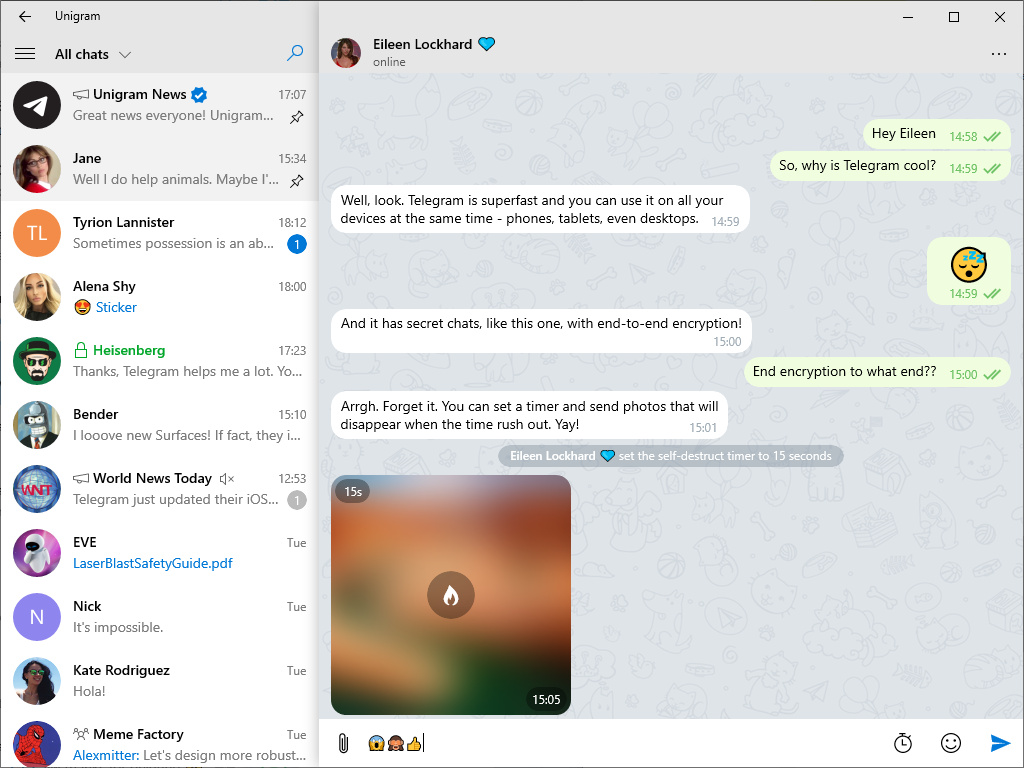
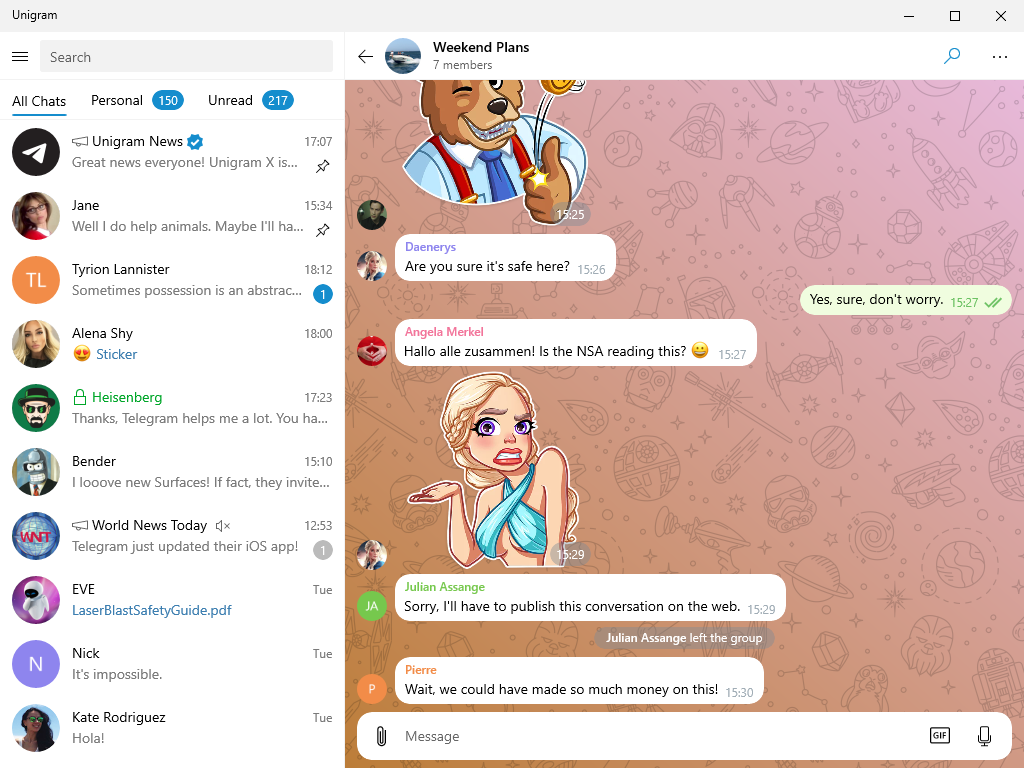
Updated store screenshots

diff --git a/Unigram/Unigram/Views/IntroPage.xaml b/Unigram/Unigram/Views/IntroPage.xaml
@@ -120,7 +120,7 @@
             <Grid Width="200" Height="200" Background="Transparent">
                 <SwapChainPanel x:Name="SwapChain" Loaded="SwapChain_Loaded" Unloaded="SwapChain_Unloaded" Width="200" Height="200"/>
                 <Border Width="160" Height="160" CornerRadius="80">
-                    <Image Source="ms-appx:///Assets/Mockup/a0.png"/>
+                    <Image Source="ms-appx:///Assets/Logos/StoreLogo.scale-400.png"/>
                 </Border>
             </Grid>
             <StackPanel Opacity="0">

diff --git a/Unigram/Unigram/Services/ProtoService.cs b/Unigram/Unigram/Services/ProtoService.cs
@@ -216,36 +216,36 @@ namespace Unigram.Services
 #if MOCKUP
             ProfilePhoto ProfilePhoto(string name)
             {
-                return new ProfilePhoto(0, new Telegram.Td.Api.File(0, 0, 0, new LocalFile(System.IO.Path.Combine(Package.Current.InstalledLocation.Path, "Assets\\Mockup\\", name), true, true, false, true, 0, 0, 0), null), null);
+                return new ProfilePhoto(0, new Telegram.Td.Api.File(0, 0, 0, new LocalFile(System.IO.Path.Combine(Windows.ApplicationModel.Package.Current.InstalledLocation.Path, "Assets\\Mockup\\", name), true, true, false, true, 0, 0, 0), null), null);
             }
 
             ChatPhoto ChatPhoto(string name)
             {
-                return new ChatPhoto(new Telegram.Td.Api.File(0, 0, 0, new LocalFile(System.IO.Path.Combine(Package.Current.InstalledLocation.Path, "Assets\\Mockup\\", name), true, true, false, true, 0, 0, 0), null), null);
+                return new ChatPhoto(new Telegram.Td.Api.File(0, 0, 0, new LocalFile(System.IO.Path.Combine(Windows.ApplicationModel.Package.Current.InstalledLocation.Path, "Assets\\Mockup\\", name), true, true, false, true, 0, 0, 0), null), null);
             }
 
-            _users[ 0] = new User( 0, "Jane",                   string.Empty, string.Empty, string.Empty, null, null, null, null, false, false, string.Empty, true, new UserTypeRegular(), string.Empty);
-            _users[ 1] = new User( 1, "Tyrion", "Lannister",    string.Empty, string.Empty, null, null, null, null, false, false, string.Empty, true, new UserTypeRegular(), string.Empty);
-            _users[ 2] = new User( 2, "Alena", "Shy",           string.Empty, string.Empty, null, null, null, null, false, false, string.Empty, true, new UserTypeRegular(), string.Empty);
-            _users[ 3] = new User( 3, "Heisenberg",             string.Empty, string.Empty, string.Empty, null, null, null, null, false, false, string.Empty, true, new UserTypeRegular(), string.Empty);
-            _users[ 4] = new User( 4, "Bender",                 string.Empty, string.Empty, string.Empty, null, null, null, null, false, false, string.Empty, true, new UserTypeRegular(), string.Empty);
-            _users[ 5] = new User( 5, "EVE",                    string.Empty, string.Empty, string.Empty, null, null, null, null, false, false, string.Empty, true, new UserTypeRegular(), string.Empty);
-            _users[16] = new User(16, "Nick",                   string.Empty, string.Empty, string.Empty, null, null, null, null, false, false, string.Empty, true, new UserTypeRegular(), string.Empty);
-            _users[ 7] = new User( 7, "Eileen", "Lockhard \uD83D\uDC99", string.Empty, string.Empty, new UserStatusOnline(int.MaxValue), ProfilePhoto("a5.png"), null, null, false, false, string.Empty, true, new UserTypeRegular(), string.Empty);
-            _users[11] = new User(11, "Thomas",                 string.Empty, string.Empty, string.Empty, null, ProfilePhoto("a3.png"), null, null, false, false, string.Empty, true, new UserTypeRegular(), string.Empty);
-            _users[ 9] = new User( 9, "Daenerys",               string.Empty, string.Empty, string.Empty, null, ProfilePhoto("a2.png"), null, null, false, false, string.Empty, true, new UserTypeRegular(), string.Empty);
-            _users[13] = new User(13, "Angela", "Merkel",       string.Empty, string.Empty, null, ProfilePhoto("a1.png"), null, null, false, false, string.Empty, true, new UserTypeRegular(), string.Empty);
-            _users[10] = new User(10, "Julian", "Assange",      string.Empty, string.Empty, null, null, null, null, false, false, string.Empty, true, new UserTypeRegular(), string.Empty);
-            _users[ 8] = new User( 8, "Pierre",                 string.Empty, string.Empty, string.Empty, null, null, null, null, false, false, string.Empty, true, new UserTypeRegular(), string.Empty);
-            _users[17] = new User(17, "Alexmitter",             string.Empty, string.Empty, string.Empty, null, null, null, null, false, false, string.Empty, true, new UserTypeRegular(), string.Empty);
-            _users[18] = new User(18, "Jaina", "Moore",         string.Empty, string.Empty, null, null, null, null, false, false, string.Empty, true, new UserTypeRegular(), string.Empty);
+            _users[ 0] = new User( 0, "Jane",string.Empty,                  string.Empty, string.Empty, null,                               null,                   false, false, false, false, string.Empty, false, true, new UserTypeRegular(), string.Empty);
+            _users[ 1] = new User( 1, "Tyrion", "Lannister",                string.Empty, string.Empty, null,                               null,                   false, false, false, false, string.Empty, false, true, new UserTypeRegular(), string.Empty);
+            _users[ 2] = new User( 2, "Alena", "Shy",                       string.Empty, string.Empty, null,                               null,                   false, false, false, false, string.Empty, false, true, new UserTypeRegular(), string.Empty);
+            _users[ 3] = new User( 3, "Heisenberg", string.Empty,           string.Empty, string.Empty, null,                               null,                   false, false, false, false, string.Empty, false, true, new UserTypeRegular(), string.Empty);
+            _users[ 4] = new User( 4, "Bender", string.Empty,               string.Empty, string.Empty, null,                               null,                   false, false, false, false, string.Empty, false, true, new UserTypeRegular(), string.Empty);
+            _users[ 5] = new User( 5, "EVE", string.Empty,                  string.Empty, string.Empty, null,                               null,                   false, false, false, false, string.Empty, false, true, new UserTypeRegular(), string.Empty);
+            _users[16] = new User(16, "Nick", string.Empty,                 string.Empty, string.Empty, null,                               null,                   false, false, false, false, string.Empty, false, true, new UserTypeRegular(), string.Empty);
+            _users[ 7] = new User( 7, "Eileen", "Lockhard \uD83D\uDC99",    string.Empty, string.Empty, new UserStatusOnline(int.MaxValue), ProfilePhoto("a5.png"), false, false, false, false, string.Empty, false, true, new UserTypeRegular(), string.Empty);
+            _users[11] = new User(11, "Thomas", string.Empty,               string.Empty, string.Empty, null,                               ProfilePhoto("a3.png"), false, false, false, false, string.Empty, false, true, new UserTypeRegular(), string.Empty);
+            _users[ 9] = new User( 9, "Daenerys", string.Empty,             string.Empty, string.Empty, null,                               ProfilePhoto("a2.png"), false, false, false, false, string.Empty, false, true, new UserTypeRegular(), string.Empty);
+            _users[13] = new User(13, "Angela", "Merkel",                   string.Empty, string.Empty, null,                               ProfilePhoto("a1.png"), false, false, false, false, string.Empty, false, true, new UserTypeRegular(), string.Empty);
+            _users[10] = new User(10, "Julian", "Assange",                  string.Empty, string.Empty, null,                               null,                   false, false, false, false, string.Empty, false, true, new UserTypeRegular(), string.Empty);
+            _users[ 8] = new User( 8, "Pierre", string.Empty,               string.Empty, string.Empty, null,                               null,                   false, false, false, false, string.Empty, false, true, new UserTypeRegular(), string.Empty);
+            _users[17] = new User(17, "Alexmitter", string.Empty,           string.Empty, string.Empty, null,                               null,                   false, false, false, false, string.Empty, false, true, new UserTypeRegular(), string.Empty);
+            _users[18] = new User(18, "Jaina", "Moore",                     string.Empty, string.Empty, null,                               null,                   false, false, false, false, string.Empty, false, true, new UserTypeRegular(), string.Empty);
 
             _secretChats[1] = new SecretChat(1, 7, new SecretChatStateReady(), false, 15, new byte[0], 75);
 
-            _supergroups[0] = new Supergroup(0, string.Empty, 0, new ChatMemberStatusMember(), 0, false, false, true, true, string.Empty);
-            _supergroups[1] = new Supergroup(1, string.Empty, 0, new ChatMemberStatusMember(), 0, false, false, true, false, string.Empty);
-            _supergroups[2] = new Supergroup(2, string.Empty, 0, new ChatMemberStatusMember(), 7, false, false, false, false, string.Empty);
-            _supergroups[3] = new Supergroup(3, string.Empty, 0, new ChatMemberStatusMember(), 0, false, false, false, false, string.Empty);
+            _supergroups[0] = new Supergroup(0, string.Empty, 0, new ChatMemberStatusMember(), 0, false, false, false, false, true, true, string.Empty, false);
+            _supergroups[1] = new Supergroup(1, string.Empty, 0, new ChatMemberStatusMember(), 0, false, false, false, false, true, false, string.Empty, false);
+            _supergroups[2] = new Supergroup(2, string.Empty, 0, new ChatMemberStatusMember(), 7, false, false, false, false, false, false, string.Empty, false);
+            _supergroups[3] = new Supergroup(3, string.Empty, 0, new ChatMemberStatusMember(), 0, false, false, false, false, false, false, string.Empty, false);
 
             int TodayDate(int hour, int minute)
             {
@@ -272,34 +272,36 @@ namespace Unigram.Services
                 return (int)(last.ToUniversalTime() - dtDateTime).TotalSeconds;
             }
 
-            var lastMessage0  = new Message(long.MaxValue, 0,  0,  null, false, false, false, false, false, false, false, TodayDate(17, 07), 0, null, 0, 0, 0, 0, string.Empty, 0, 0, new MessageText(new FormattedText("Great news everyone! Unigram X is now available in the Microsoft Store", new TextEntity[0]), null), null);
-            var lastMessage1  = new Message(long.MaxValue, 1,  1,  null, false, false, false, false, false, false, false, TodayDate(15, 34), 0, null, 0, 0, 0, 0, string.Empty, 0, 0, new MessageText(new FormattedText("Well I do help animals. Maybe I'll have a few cats in my new luxury apartment. 😊", new TextEntity[0]), null), null);
-            var lastMessage2  = new Message(long.MaxValue, 2,  2,  null, false, false, false, false, false, false, false, TodayDate(18, 12), 0, null, 0, 0, 0, 0, string.Empty, 0, 0, new MessageText(new FormattedText("Sometimes possession is an abstract concept. They took my purse, but the...", new TextEntity[0]), null), null);
-            var lastMessage3  = new Message(long.MaxValue, 3,  3,  null, false, false, false, false, false, false, false, TodayDate(18, 00), 0, null, 0, 0, 0, 0, string.Empty, 0, 0, new MessageSticker(new Sticker(0, 0, 0, "😍", false, null, null, null)), null);
-            var lastMessage4  = new Message(long.MaxValue, 4,  4,  null, false, false, false, false, false, false, false, TodayDate(17, 23), 0, null, 0, 0, 0, 0, string.Empty, 0, 0, new MessageText(new FormattedText("Thanks, Telegram helps me a lot. You have my financial support if you need more servers.", new TextEntity[0]), null), null);
-            var lastMessage5  = new Message(long.MaxValue, 5,  5,  null, false, false, false, false, false, false, false, TodayDate(15, 10), 0, null, 0, 0, 0, 0, string.Empty, 0, 0, new MessageText(new FormattedText("I looove new Surfaces! If fact, they invited me to a focus group.", new TextEntity[0]), null), null);
-            var lastMessage6  = new Message(long.MaxValue, 6,  6,  null, false, false, false, false, false, false, false, TodayDate(12, 53), 0, null, 0, 0, 0, 0, string.Empty, 0, 0, new MessageText(new FormattedText("Telegram just updated their iOS app!", new TextEntity[0]), null), null);
-            var lastMessage7  = new Message(long.MaxValue, 7,  7,  null, false, false, false, false, false, false, false, TuesdayDate(), 0, null, 0, 0, 0, 0, string.Empty, 0, 0, new MessageDocument(new Document("LaserBlastSafetyGuide.pdf", string.Empty, null, null), new FormattedText(string.Empty, new TextEntity[0])), null);
-            var lastMessage8  = new Message(long.MaxValue, 8,  8,  null, false, false, false, false, false, false, false, TuesdayDate(), 0, null, 0, 0, 0, 0, string.Empty, 0, 0, new MessageText(new FormattedText("It's impossible.", new TextEntity[0]), null), null);
-            var lastMessage9  = new Message(long.MaxValue, 9,  9,  null, false, false, false, false, false, false, false, TuesdayDate(), 0, null, 0, 0, 0, 0, string.Empty, 0, 0, new MessageText(new FormattedText("Hola!", new TextEntity[0]), null), null);
-            var lastMessage10 = new Message(long.MaxValue, 17, 12, null, false, false, false, false, false, false, false, TuesdayDate(), 0, null, 0, 0, 0, 0, string.Empty, 0, 0, new MessageText(new FormattedText("Let's design more robust memes", new TextEntity[0]), null), null);
-            var lastMessage11 = new Message(long.MaxValue, 18, 13, null, false, false, false, false, false, false, false, TuesdayDate(), 0, null, 0, 0, 0, 0, string.Empty, 0, 0, new MessageText(new FormattedText("What?! 😱", new TextEntity[0]), null), null);
+            var lastMessage0  = new Message(long.MaxValue, 0,  0,  null, null, false, false, false, false, false, false, false, TodayDate(17, 07),  0, null, 0, 0, 0, 0, string.Empty, 0, 0, string.Empty, new MessageText(new FormattedText("Great news everyone! Unigram X is now available in the Microsoft Store", new TextEntity[0]), null), null);
+            var lastMessage1  = new Message(long.MaxValue, 1,  1,  null, null, false, false, false, false, false, false, false, TodayDate(15, 34),  0, null, 0, 0, 0, 0, string.Empty, 0, 0, string.Empty, new MessageText(new FormattedText("Well I do help animals. Maybe I'll have a few cats in my new luxury apartment. 😊", new TextEntity[0]), null), null);
+            var lastMessage2  = new Message(long.MaxValue, 2,  2,  null, null, false, false, false, false, false, false, false, TodayDate(18, 12),  0, null, 0, 0, 0, 0, string.Empty, 0, 0, string.Empty, new MessageText(new FormattedText("Sometimes possession is an abstract concept. They took my purse, but the...", new TextEntity[0]), null), null);
+            var lastMessage3  = new Message(long.MaxValue, 3,  3,  null, null, false, false, false, false, false, false, false, TodayDate(18, 00),  0, null, 0, 0, 0, 0, string.Empty, 0, 0, string.Empty, new MessageSticker(new Sticker(0, 0, 0, "😍", false, false, null, null, null)), null);
+            var lastMessage4  = new Message(long.MaxValue, 4,  4,  null, null, false, false, false, false, false, false, false, TodayDate(17, 23),  0, null, 0, 0, 0, 0, string.Empty, 0, 0, string.Empty, new MessageText(new FormattedText("Thanks, Telegram helps me a lot. You have my financial support if you need more servers.", new TextEntity[0]), null), null);
+            var lastMessage5  = new Message(long.MaxValue, 5,  5,  null, null, false, false, false, false, false, false, false, TodayDate(15, 10),  0, null, 0, 0, 0, 0, string.Empty, 0, 0, string.Empty, new MessageText(new FormattedText("I looove new Surfaces! If fact, they invited me to a focus group.", new TextEntity[0]), null), null);
+            var lastMessage6  = new Message(long.MaxValue, 6,  6,  null, null, false, false, false, false, false, false, false, TodayDate(12, 53),  0, null, 0, 0, 0, 0, string.Empty, 0, 0, string.Empty, new MessageText(new FormattedText("Telegram just updated their iOS app!", new TextEntity[0]), null), null);
+            var lastMessage7  = new Message(long.MaxValue, 7,  7,  null, null, false, false, false, false, false, false, false, TuesdayDate(),      0, null, 0, 0, 0, 0, string.Empty, 0, 0, string.Empty, new MessageDocument(new Document("LaserBlastSafetyGuide.pdf", string.Empty, null, null, null), new FormattedText(string.Empty, new TextEntity[0])), null);
+            var lastMessage8  = new Message(long.MaxValue, 8,  8,  null, null, false, false, false, false, false, false, false, TuesdayDate(),      0, null, 0, 0, 0, 0, string.Empty, 0, 0, string.Empty, new MessageText(new FormattedText("It's impossible.", new TextEntity[0]), null), null);
+            var lastMessage9  = new Message(long.MaxValue, 9,  9,  null, null, false, false, false, false, false, false, false, TuesdayDate(),      0, null, 0, 0, 0, 0, string.Empty, 0, 0, string.Empty, new MessageText(new FormattedText("Hola!", new TextEntity[0]), null), null);
+            var lastMessage10 = new Message(long.MaxValue, 17, 12, null, null, false, false, false, false, false, false, false, TuesdayDate(),      0, null, 0, 0, 0, 0, string.Empty, 0, 0, string.Empty, new MessageText(new FormattedText("Let's design more robust memes", new TextEntity[0]), null), null);
+            var lastMessage11 = new Message(long.MaxValue, 18, 13, null, null, false, false, false, false, false, false, false, TuesdayDate(),      0, null, 0, 0, 0, 0, string.Empty, 0, 0, string.Empty, new MessageText(new FormattedText("What?! 😱", new TextEntity[0]), null), null);
 
-            _chats[ 0] = new Chat( 0, new ChatTypeSupergroup(0, true),      "Unigram News",     ChatPhoto("a0.png"),  lastMessage0,  long.MaxValue - 0,  true,  false, false, false, false, 0, 0, 0, 0, new ChatNotificationSettings(false, 0, false, string.Empty, false, true, true, true, true, true), 0, 0, null, string.Empty);
-            _chats[ 1] = new Chat( 1, new ChatTypePrivate(0),               "Jane",             ChatPhoto("a6.png"),  lastMessage1,  long.MaxValue - 1,  true,  false, false, false, false, 0, 0, 0, 0, new ChatNotificationSettings(false, 0, false, string.Empty, false, true, true, true, true, true), 0, 0, null, string.Empty);
-            _chats[ 2] = new Chat( 2, new ChatTypePrivate(1),               "Tyrion Lannister", null,                 lastMessage2,  long.MaxValue - 2,  false, false, false, false, false, 1, 0, 0, 0, new ChatNotificationSettings(false, 0, false, string.Empty, false, true, true, true, true, true), 0, 0, null, string.Empty);
-            _chats[ 3] = new Chat( 3, new ChatTypePrivate(2),               "Alena Shy",        ChatPhoto("a7.png"),  lastMessage3,  long.MaxValue - 3,  false, false, false, false, false, 0, 0, 0, 0, new ChatNotificationSettings(false, 0, false, string.Empty, false, true, true, true, true, true), 0, 0, null, string.Empty);
-            _chats[ 4] = new Chat( 4, new ChatTypeSecret(0, 3),             "Heisenberg",       ChatPhoto("a8.png"),  lastMessage4,  long.MaxValue - 4,  false, false, false, false, false, 0, 0, 0, 0, new ChatNotificationSettings(false, 0, false, string.Empty, false, true, true, true, true, true), 0, 0, null, string.Empty);
-            _chats[ 5] = new Chat( 5, new ChatTypePrivate(4),               "Bender",           ChatPhoto("a9.png"),  lastMessage5,  long.MaxValue - 5,  false, false, false, false, false, 0, 0, 0, 0, new ChatNotificationSettings(false, 0, false, string.Empty, false, true, true, true, true, true), 0, 0, null, string.Empty);
-            _chats[ 6] = new Chat( 6, new ChatTypeSupergroup(1, true),      "World News Today", ChatPhoto("a10.png"), lastMessage6,  long.MaxValue - 6,  false, false, false, false, false, 1, 0, 0, 0, new ChatNotificationSettings(false, int.MaxValue, false, string.Empty, false, true, true, true, true, true), 0, 0, null, string.Empty);
-            _chats[ 7] = new Chat( 7, new ChatTypePrivate(5),               "EVE",              ChatPhoto("a11.png"), lastMessage7,  long.MaxValue - 7,  false, false, false, false, false, 0, 0, 0, 0, new ChatNotificationSettings(false, 0, false, string.Empty, false, true, true, true, true, true), 0, 0, null, string.Empty);
-            _chats[ 8] = new Chat( 8, new ChatTypePrivate(16),              "Nick",             null,                 lastMessage8,  long.MaxValue - 8,  false, false, false, false, false, 0, 0, 0, 0, new ChatNotificationSettings(false, 0, false, string.Empty, false, true, true, true, true, true), 0, 0, null, string.Empty);
-            _chats[11] = new Chat(11, new ChatTypePrivate(16),              "Kate Rodriguez",   ChatPhoto("a13.png"), lastMessage9,  long.MaxValue - 9,  false, false, false, false, false, 0, 0, 0, 0, new ChatNotificationSettings(false, 0, false, string.Empty, false, true, true, true, true, true), 0, 0, null, string.Empty);
-            _chats[12] = new Chat(12, new ChatTypeSupergroup(3, false),     "Meme Factory",     ChatPhoto("a14.png"), lastMessage10, long.MaxValue - 10, false, false, false, false, false, 0, 0, 0, 0, new ChatNotificationSettings(false, 0, false, string.Empty, false, true, true, true, true, true), 0, 0, null, string.Empty);
-            _chats[13] = new Chat(13, new ChatTypePrivate(18),              "Jaina Moore",      null,                 lastMessage11, long.MaxValue - 11, false, false, false, false, false, 0, 0, 0, 0, new ChatNotificationSettings(false, 0, false, string.Empty, false, true, true, true, true, true), 0, 0, null, string.Empty);
+            var permissions = new ChatPermissions(true, true, true, true, true, true, true, true);
 
-            _chats[ 9] = new Chat( 9, new ChatTypeSupergroup(2, false),        "Weekend Plans", ChatPhoto("a4.png"),  null, 0, false, false, false, false, false, 0, 0, long.MaxValue, 0, new ChatNotificationSettings(false, 0, false, string.Empty, false, true, true, true, true, true), 0, 0, null, string.Empty);
-            _chats[10] = new Chat(10, new ChatTypeSecret(1, 7), "Eileen Lockhard \uD83D\uDC99", ChatPhoto("a5.png"),  null, 0, false, false, false, false, false, 0, 0, long.MaxValue, 0, new ChatNotificationSettings(false, 0, false, string.Empty, false, true, true, true, true, true), 0, 0, null, string.Empty);
+            _chats[ 0] = new Chat( 0, new ChatTypeSupergroup(0, true),      "Unigram News",     ChatPhoto("a0.png"),    permissions, lastMessage0,     new[] { new ChatPosition(new ChatListMain(), long.MaxValue - 0,  true,  null) },    false, false, false, false, false, false, 0, 0, 0, 0, new ChatNotificationSettings(false, 0, false, string.Empty, false, true, true, true, true, true),             null, 0, 0, null, string.Empty);
+            _chats[ 1] = new Chat( 1, new ChatTypePrivate(0),               "Jane",             ChatPhoto("a6.png"),    permissions, lastMessage1,     new[] { new ChatPosition(new ChatListMain(), long.MaxValue - 1,  true,  null) },    false, false, false, false, false, false, 0, 0, 0, 0, new ChatNotificationSettings(false, 0, false, string.Empty, false, true, true, true, true, true),             null, 0, 0, null, string.Empty);
+            _chats[ 2] = new Chat( 2, new ChatTypePrivate(1),               "Tyrion Lannister", null,                   permissions, lastMessage2,     new[] { new ChatPosition(new ChatListMain(), long.MaxValue - 2,  false, null) },    false, false, false, false, false, false, 1, 0, 0, 0, new ChatNotificationSettings(false, 0, false, string.Empty, false, true, true, true, true, true),             null, 0, 0, null, string.Empty);
+            _chats[ 3] = new Chat( 3, new ChatTypePrivate(2),               "Alena Shy",        ChatPhoto("a7.png"),    permissions, lastMessage3,     new[] { new ChatPosition(new ChatListMain(), long.MaxValue - 3,  false, null) },    false, false, false, false, false, false, 0, 0, 0, 0, new ChatNotificationSettings(false, 0, false, string.Empty, false, true, true, true, true, true),             null, 0, 0, null, string.Empty);
+            _chats[ 4] = new Chat( 4, new ChatTypeSecret(0, 3),             "Heisenberg",       ChatPhoto("a8.png"),    permissions, lastMessage4,     new[] { new ChatPosition(new ChatListMain(), long.MaxValue - 4,  false, null) },    false, false, false, false, false, false, 0, 0, 0, 0, new ChatNotificationSettings(false, 0, false, string.Empty, false, true, true, true, true, true),             null, 0, 0, null, string.Empty);
+            _chats[ 5] = new Chat( 5, new ChatTypePrivate(4),               "Bender",           ChatPhoto("a9.png"),    permissions, lastMessage5,     new[] { new ChatPosition(new ChatListMain(), long.MaxValue - 5,  false, null) },    false, false, false, false, false, false, 0, 0, 0, 0, new ChatNotificationSettings(false, 0, false, string.Empty, false, true, true, true, true, true),             null, 0, 0, null, string.Empty);
+            _chats[ 6] = new Chat( 6, new ChatTypeSupergroup(1, true),      "World News Today", ChatPhoto("a10.png"),   permissions, lastMessage6,     new[] { new ChatPosition(new ChatListMain(), long.MaxValue - 6,  false, null) },    false, false, false, false, false, false, 1, 0, 0, 0, new ChatNotificationSettings(false, int.MaxValue, false, string.Empty, false, true, true, true, true, true),  null, 0, 0, null, string.Empty);
+            _chats[ 7] = new Chat( 7, new ChatTypePrivate(5),               "EVE",              ChatPhoto("a11.png"),   permissions, lastMessage7,     new[] { new ChatPosition(new ChatListMain(), long.MaxValue - 7,  false, null) },    false, false, false, false, false, false, 0, 0, 0, 0, new ChatNotificationSettings(false, 0, false, string.Empty, false, true, true, true, true, true),             null, 0, 0, null, string.Empty);
+            _chats[ 8] = new Chat( 8, new ChatTypePrivate(16),              "Nick",             null,                   permissions, lastMessage8,     new[] { new ChatPosition(new ChatListMain(), long.MaxValue - 8,  false, null) },    false, false, false, false, false, false, 0, 0, 0, 0, new ChatNotificationSettings(false, 0, false, string.Empty, false, true, true, true, true, true),             null, 0, 0, null, string.Empty);
+            _chats[11] = new Chat(11, new ChatTypePrivate(16),              "Kate Rodriguez",   ChatPhoto("a13.png"),   permissions, lastMessage9,     new[] { new ChatPosition(new ChatListMain(), long.MaxValue - 9,  false, null) },    false, false, false, false, false, false, 0, 0, 0, 0, new ChatNotificationSettings(false, 0, false, string.Empty, false, true, true, true, true, true),             null, 0, 0, null, string.Empty);
+            _chats[12] = new Chat(12, new ChatTypeSupergroup(3, false),     "Meme Factory",     ChatPhoto("a14.png"),   permissions, lastMessage10,    new[] { new ChatPosition(new ChatListMain(), long.MaxValue - 10, false, null) },    false, false, false, false, false, false, 0, 0, 0, 0, new ChatNotificationSettings(false, 0, false, string.Empty, false, true, true, true, true, true),             null, 0, 0, null, string.Empty);
+            _chats[13] = new Chat(13, new ChatTypePrivate(18),              "Jaina Moore",      null,                   permissions, lastMessage11,    new[] { new ChatPosition(new ChatListMain(), long.MaxValue - 11, false, null) },    false, false, false, false, false, false, 0, 0, 0, 0, new ChatNotificationSettings(false, 0, false, string.Empty, false, true, true, true, true, true),             null, 0, 0, null, string.Empty);
+
+            _chats[ 9] = new Chat( 9, new ChatTypeSupergroup(2, false),        "Weekend Plans", ChatPhoto("a4.png"),    permissions, null,             new [] { new ChatPosition(new ChatListMain(), 0, false, null) },                    false, false, false, false, false, false, 0, 0, long.MaxValue, 0, new ChatNotificationSettings(false, 0, false, string.Empty, false, true, true, true, true, true), null, 0, 0, null, string.Empty);
+            _chats[10] = new Chat(10, new ChatTypeSecret(1, 7), "Eileen Lockhard \uD83D\uDC99", ChatPhoto("a5.png"),    permissions, null,             new [] { new ChatPosition(new ChatListMain(), 0, false, null) },                    false, false, false, false, false, false, 0, 0, long.MaxValue, 0, new ChatNotificationSettings(false, 0, false, string.Empty, false, true, true, true, true, true), null, 0, 0, null, string.Empty);
 #endif
 
             Task.Run(() =>
@@ -735,6 +737,10 @@ namespace Unigram.Services
 
         public IList<Chat> GetChats(IList<long> ids)
         {
+#if MOCKUP
+            return _chats.Values.ToList();
+#endif
+
             var result = new List<Chat>(ids.Count);
 
             foreach (var id in ids)

diff --git a/Unigram/Unigram/ViewModels/DialogViewModel.cs b/Unigram/Unigram/ViewModels/DialogViewModel.cs
@@ -1798,29 +1798,29 @@ namespace Unigram.ViewModels
 
             if (chat.Id == 10)
             {
-                Items.Add(_messageFactory.Create(this, new Message(0, 0, chat.Id, null, true,  false, false, false, false, false, false, TodayDate(14, 58), 0, null, 0, 0,  0, 0, string.Empty, 0, 0, new MessageText(new FormattedText("Hey Eileen", new TextEntity[0]), null), null)));
-                Items.Add(_messageFactory.Create(this, new Message(1, 0, chat.Id, null, true,  false, false, false, false, false, false, TodayDate(14, 59), 0, null, 0, 0,  0, 0, string.Empty, 0, 0, new MessageText(new FormattedText("So, why is Telegram cool?", new TextEntity[0]), null), null)));
-                Items.Add(_messageFactory.Create(this, new Message(2, 7, chat.Id, null, false, false, false, false, false, false, false, TodayDate(14, 59), 0, null, 0, 0,  0, 0, string.Empty, 0, 0, new MessageText(new FormattedText("Well, look. Telegram is superfast and you can use it on all your devices at the same time - phones, tablets, even desktops.", new TextEntity[0]), null), null)));
-                Items.Add(_messageFactory.Create(this, new Message(3, 0, chat.Id, null, true,  false, false, false, false, false, false, TodayDate(14, 59), 0, null, 0, 0,  0, 0, string.Empty, 0, 0, new MessageText(new FormattedText("😴", new TextEntity[0]), null), null)));
-                Items.Add(_messageFactory.Create(this, new Message(4, 7, chat.Id, null, false, false, false, false, false, false, false, TodayDate(15, 00), 0, null, 0, 0,  0, 0, string.Empty, 0, 0, new MessageText(new FormattedText("And it has secret chats, like this one, with end-to-end encryption!", new TextEntity[0]), null), null)));
-                Items.Add(_messageFactory.Create(this, new Message(5, 0, chat.Id, null, true,  false, false, false, false, false, false, TodayDate(15, 00), 0, null, 0, 0,  0, 0, string.Empty, 0, 0, new MessageText(new FormattedText("End encryption to what end??", new TextEntity[0]), null), null)));
-                Items.Add(_messageFactory.Create(this, new Message(6, 7, chat.Id, null, false, false, false, false, false, false, false, TodayDate(15, 01), 0, null, 0, 0,  0, 0, string.Empty, 0, 0, new MessageText(new FormattedText("Arrgh. Forget it. You can set a timer and send photos that will disappear when the time rush out. Yay!", new TextEntity[0]), null), null)));
-                Items.Add(_messageFactory.Create(this, new Message(7, 7, chat.Id, null, false, false, false, false, false, false, false, TodayDate(15, 01), 0, null, 0, 0,  0, 0, string.Empty, 0, 0, new MessageChatSetTtl(15), null)));
-                Items.Add(_messageFactory.Create(this, new Message(8, 0, chat.Id, null, false, false, false, false, false, false, false, TodayDate(15, 05), 0, null, 0, 15, 0, 0, string.Empty, 0, 0, new MessagePhoto(new Photo(false, new[] { new PhotoSize("t", new File(0, 0, 0, new LocalFile(System.IO.Path.Combine(Package.Current.InstalledLocation.Path, "Assets\\Mockup\\hot.png"), true, true, false, true, 0, 0, 0), new RemoteFile()), 580, 596) }), new FormattedText(string.Empty, new TextEntity[0]), true), null)));
+                Items.Add(_messageFactory.Create(this, new Message(0, 0, chat.Id, null, null, true,  false, false, false, false, false, false, TodayDate(14, 58), 0, null, 0, 0,  0, 0, string.Empty, 0, 0, string.Empty, new MessageText(new FormattedText("Hey Eileen", new TextEntity[0]), null), null)));
+                Items.Add(_messageFactory.Create(this, new Message(1, 0, chat.Id, null, null, true,  false, false, false, false, false, false, TodayDate(14, 59), 0, null, 0, 0,  0, 0, string.Empty, 0, 0, string.Empty, new MessageText(new FormattedText("So, why is Telegram cool?", new TextEntity[0]), null), null)));
+                Items.Add(_messageFactory.Create(this, new Message(2, 7, chat.Id, null, null, false, false, false, false, false, false, false, TodayDate(14, 59), 0, null, 0, 0,  0, 0, string.Empty, 0, 0, string.Empty, new MessageText(new FormattedText("Well, look. Telegram is superfast and you can use it on all your devices at the same time - phones, tablets, even desktops.", new TextEntity[0]), null), null)));
+                Items.Add(_messageFactory.Create(this, new Message(3, 0, chat.Id, null, null, true,  false, false, false, false, false, false, TodayDate(14, 59), 0, null, 0, 0,  0, 0, string.Empty, 0, 0, string.Empty, new MessageText(new FormattedText("😴", new TextEntity[0]), null), null)));
+                Items.Add(_messageFactory.Create(this, new Message(4, 7, chat.Id, null, null, false, false, false, false, false, false, false, TodayDate(15, 00), 0, null, 0, 0,  0, 0, string.Empty, 0, 0, string.Empty, new MessageText(new FormattedText("And it has secret chats, like this one, with end-to-end encryption!", new TextEntity[0]), null), null)));
+                Items.Add(_messageFactory.Create(this, new Message(5, 0, chat.Id, null, null, true,  false, false, false, false, false, false, TodayDate(15, 00), 0, null, 0, 0,  0, 0, string.Empty, 0, 0, string.Empty, new MessageText(new FormattedText("End encryption to what end??", new TextEntity[0]), null), null)));
+                Items.Add(_messageFactory.Create(this, new Message(6, 7, chat.Id, null, null, false, false, false, false, false, false, false, TodayDate(15, 01), 0, null, 0, 0,  0, 0, string.Empty, 0, 0, string.Empty, new MessageText(new FormattedText("Arrgh. Forget it. You can set a timer and send photos that will disappear when the time rush out. Yay!", new TextEntity[0]), null), null)));
+                Items.Add(_messageFactory.Create(this, new Message(7, 7, chat.Id, null, null, false, false, false, false, false, false, false, TodayDate(15, 01), 0, null, 0, 0,  0, 0, string.Empty, 0, 0, string.Empty, new MessageChatSetTtl(15), null)));
+                Items.Add(_messageFactory.Create(this, new Message(8, 0, chat.Id, null, null, false, false, false, false, false, false, false, TodayDate(15, 05), 0, null, 0, 15, 0, 0, string.Empty, 0, 0, string.Empty, new MessagePhoto(new Photo(false, null, new[] { new PhotoSize("t", new File(0, 0, 0, new LocalFile(System.IO.Path.Combine(Windows.ApplicationModel.Package.Current.InstalledLocation.Path, "Assets\\Mockup\\hot.png"), true, true, false, true, 0, 0, 0), new RemoteFile()), 580, 596), new PhotoSize("i", new File(0, 0, 0, new LocalFile(System.IO.Path.Combine(Windows.ApplicationModel.Package.Current.InstalledLocation.Path, "Assets\\Mockup\\hot.png"), true, true, false, true, 0, 0, 0), new RemoteFile()), 580, 596) }), new FormattedText(string.Empty, new TextEntity[0]), true), null)));
 
                 SetText("😱🙈👍");
             }
             else
             {
                 //Items.Add(GetMessage(new Message(0, 11, chat.Id, null, false, false, false, false, false, false, false, TodayDate(15, 25), 0, null, 0, 0, 0, 0, string.Empty, 0, 0, new MessageText(new FormattedText("Yeah, that was my iPhone X", new TextEntity[0]), null), null)));
-                Items.Add(_messageFactory.Create(this, new Message(4, 11, chat.Id, null, false, false, false, false, false, false, false, TodayDate(15, 25), 0, null, 0, 0, 0, 0, string.Empty, 0, 0, new MessageSticker(new Sticker(0, 512, 512, "", false, null, null, new File(0, 0, 0, new LocalFile(System.IO.Path.Combine(Package.Current.InstalledLocation.Path, "Assets\\Mockup\\sticker0.webp"), true, true, false, true, 0, 0, 0), null))), null)));
-                Items.Add(_messageFactory.Create(this, new Message(1, 9,  chat.Id, null, false, false, false, false, false, false, false, TodayDate(15, 26), 0, null, 0, 0, 0, 0, string.Empty, 0, 0, new MessageText(new FormattedText("Are you sure it's safe here?", new TextEntity[0]), null), null)));
-                Items.Add(_messageFactory.Create(this, new Message(2, 7,  chat.Id, null, true,  false, false, false, false, false, false, TodayDate(15, 27), 0, null, 0, 0, 0, 0, string.Empty, 0, 0, new MessageText(new FormattedText("Yes, sure, don't worry.", new TextEntity[0]), null), null)));
-                Items.Add(_messageFactory.Create(this, new Message(3, 13, chat.Id, null, false, false, false, false, false, false, false, TodayDate(15, 27), 0, null, 0, 0, 0, 0, string.Empty, 0, 0, new MessageText(new FormattedText("Hallo alle zusammen! Is the NSA reading this? 😀", new TextEntity[0]), null), null)));
-                Items.Add(_messageFactory.Create(this, new Message(4, 9,  chat.Id, null, false, false, false, false, false, false, false, TodayDate(15, 29), 0, null, 0, 0, 0, 0, string.Empty, 0, 0, new MessageSticker(new Sticker(0, 512, 512, "", false, null, null, new File(0, 0, 0, new LocalFile(System.IO.Path.Combine(Package.Current.InstalledLocation.Path, "Assets\\Mockup\\sticker1.webp"), true, true, false, true, 0, 0, 0), null))), null)));
-                Items.Add(_messageFactory.Create(this, new Message(5, 10, chat.Id, null, false, false, false, false, false, false, false, TodayDate(15, 29), 0, null, 0, 0, 0, 0, string.Empty, 0, 0, new MessageText(new FormattedText("Sorry, I'll have to publish this conversation on the web.", new TextEntity[0]), null), null)));
-                Items.Add(_messageFactory.Create(this, new Message(6, 10, chat.Id, null, false, false, false, false, false, false, false, TodayDate(15, 01), 0, null, 0, 0, 0, 0, string.Empty, 0, 0, new MessageChatDeleteMember(10), null)));
-                Items.Add(_messageFactory.Create(this, new Message(7, 8,  chat.Id, null, false, false, false, false, false, false, false, TodayDate(15, 30), 0, null, 0, 0, 0, 0, string.Empty, 0, 0, new MessageText(new FormattedText("Wait, we could have made so much money on this!", new TextEntity[0]), null), null)));
+                Items.Add(_messageFactory.Create(this, new Message(4, 11, chat.Id, null, null, false, false, false, false, false, false, false, TodayDate(15, 25), 0, null, 0, 0, 0, 0, string.Empty, 0, 0, string.Empty, new MessageSticker(new Sticker(0, 512, 512, "", false, false, null, null, new File(0, 0, 0, new LocalFile(System.IO.Path.Combine(Windows.ApplicationModel.Package.Current.InstalledLocation.Path, "Assets\\Mockup\\sticker0.webp"), true, true, false, true, 0, 0, 0), null))), null)));
+                Items.Add(_messageFactory.Create(this, new Message(1, 9,  chat.Id, null, null, false, false, false, false, false, false, false, TodayDate(15, 26), 0, null, 0, 0, 0, 0, string.Empty, 0, 0, string.Empty, new MessageText(new FormattedText("Are you sure it's safe here?", new TextEntity[0]), null), null)));
+                Items.Add(_messageFactory.Create(this, new Message(2, 7,  chat.Id, null, null, true,  false, false, false, false, false, false, TodayDate(15, 27), 0, null, 0, 0, 0, 0, string.Empty, 0, 0, string.Empty, new MessageText(new FormattedText("Yes, sure, don't worry.", new TextEntity[0]), null), null)));
+                Items.Add(_messageFactory.Create(this, new Message(3, 13, chat.Id, null, null, false, false, false, false, false, false, false, TodayDate(15, 27), 0, null, 0, 0, 0, 0, string.Empty, 0, 0, string.Empty, new MessageText(new FormattedText("Hallo alle zusammen! Is the NSA reading this? 😀", new TextEntity[0]), null), null)));
+                Items.Add(_messageFactory.Create(this, new Message(4, 9,  chat.Id, null, null, false, false, false, false, false, false, false, TodayDate(15, 29), 0, null, 0, 0, 0, 0, string.Empty, 0, 0, string.Empty, new MessageSticker(new Sticker(0, 512, 512, "", false, false, null, null, new File(0, 0, 0, new LocalFile(System.IO.Path.Combine(Windows.ApplicationModel.Package.Current.InstalledLocation.Path, "Assets\\Mockup\\sticker1.webp"), true, true, false, true, 0, 0, 0), null))), null)));
+                Items.Add(_messageFactory.Create(this, new Message(5, 10, chat.Id, null, null, false, false, false, false, false, false, false, TodayDate(15, 29), 0, null, 0, 0, 0, 0, string.Empty, 0, 0, string.Empty, new MessageText(new FormattedText("Sorry, I'll have to publish this conversation on the web.", new TextEntity[0]), null), null)));
+                Items.Add(_messageFactory.Create(this, new Message(6, 10, chat.Id, null, null, false, false, false, false, false, false, false, TodayDate(15, 01), 0, null, 0, 0, 0, 0, string.Empty, 0, 0, string.Empty, new MessageChatDeleteMember(10), null)));
+                Items.Add(_messageFactory.Create(this, new Message(7, 8,  chat.Id, null, null, false, false, false, false, false, false, false, TodayDate(15, 30), 0, null, 0, 0, 0, 0, string.Empty, 0, 0, string.Empty, new MessageText(new FormattedText("Wait, we could have made so much money on this!", new TextEntity[0]), null), null)));
             }
 #endif
 

diff --git a/Unigram/Unigram/App.xaml.cs b/Unigram/Unigram/App.xaml.cs
@@ -30,11 +30,6 @@ using Windows.UI.ViewManagement;
 using Windows.UI.Xaml;
 using Windows.UI.Xaml.Controls;
 using Windows.UI.Xaml.Resources;
-#if !DEBUG
-using Microsoft.AppCenter;
-using Microsoft.AppCenter.Analytics;
-using Microsoft.AppCenter.Crashes;
-#endif
 
 namespace Unigram
 {
@@ -103,7 +98,9 @@ namespace Unigram
             };
 
 #if !DEBUG
-            AppCenter.Start(Constants.AppCenterId, typeof(Analytics), typeof(Crashes));
+            Microsoft.AppCenter.AppCenter.Start(Constants.AppCenterId,
+                typeof(Microsoft.AppCenter.Analytics.Analytics),
+                typeof(Microsoft.AppCenter.Crashes.Crashes));
 
             string deviceFamilyVersion = AnalyticsInfo.VersionInfo.DeviceFamilyVersion;
             ulong version = ulong.Parse(deviceFamilyVersion);
@@ -111,8 +108,8 @@ namespace Unigram
             ulong minor = (version & 0x0000FFFF00000000L) >> 32;
             ulong build = (version & 0x00000000FFFF0000L) >> 16;
 
-            Analytics.TrackEvent($"{major}.{minor}.{build}");
-            Analytics.TrackEvent(AnalyticsInfo.VersionInfo.DeviceFamily);
+            Microsoft.AppCenter.Analytics.Analytics.TrackEvent($"{major}.{minor}.{build}");
+            Microsoft.AppCenter.Analytics.Analytics.TrackEvent(AnalyticsInfo.VersionInfo.DeviceFamily);
 #endif
         }
 

diff --git a/Unigram/Unigram/ViewModels/ChatsViewModel.cs b/Unigram/Unigram/ViewModels/ChatsViewModel.cs
@@ -54,7 +54,7 @@ namespace Unigram.ViewModels
             TopChatDeleteCommand = new RelayCommand<Chat>(TopChatDeleteExecute);
 
 #if MOCKUP
-            Items.AddRange(protoService.GetChats(20));
+            Items.AddRange(protoService.GetChats(null));
 #endif
 
             SelectedItems = new MvxObservableCollection<Chat>();

diff --git a/Unigram/Unigram/Views/MainPage.xaml.cs b/Unigram/Unigram/Views/MainPage.xaml.cs
@@ -502,7 +502,7 @@ namespace Unigram.Views
         private void HideStatus()
         {
             Status.IsIndeterminate = false;
-#if DEBUG
+#if DEBUG && !MOCKUP
             StatusLabel.Text = Strings.Resources.AppName;
 #else
             StatusLabel.Text = "Unigram";
